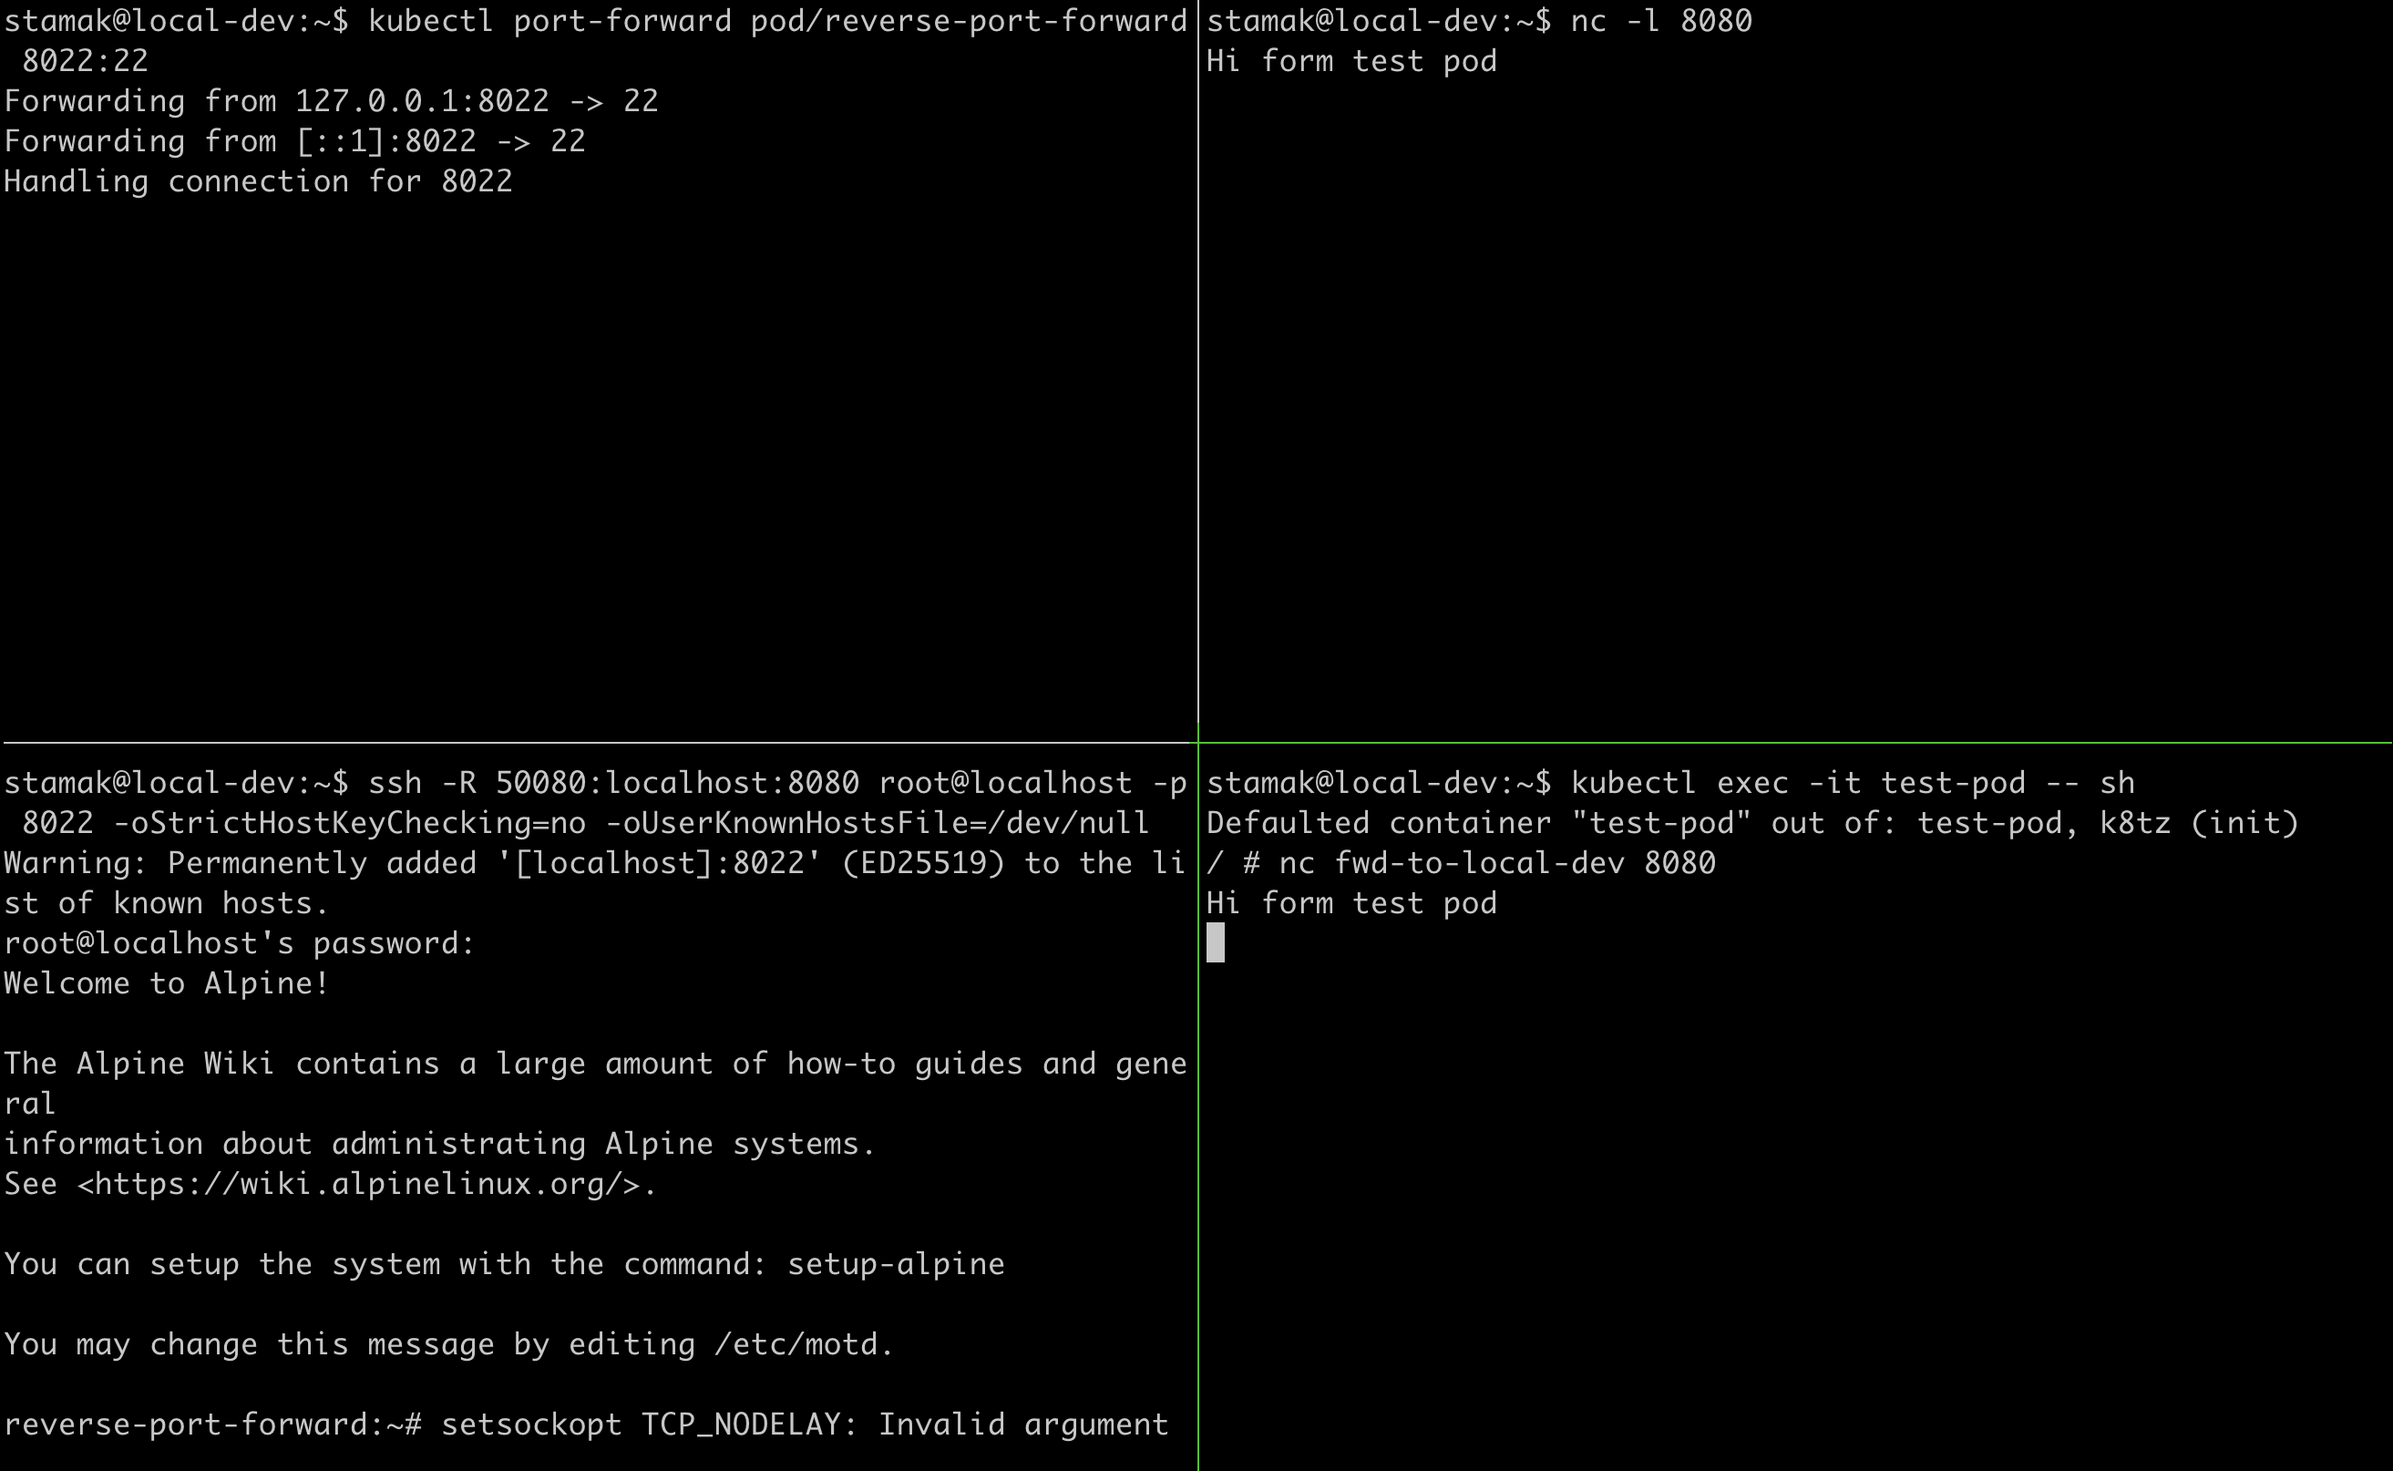
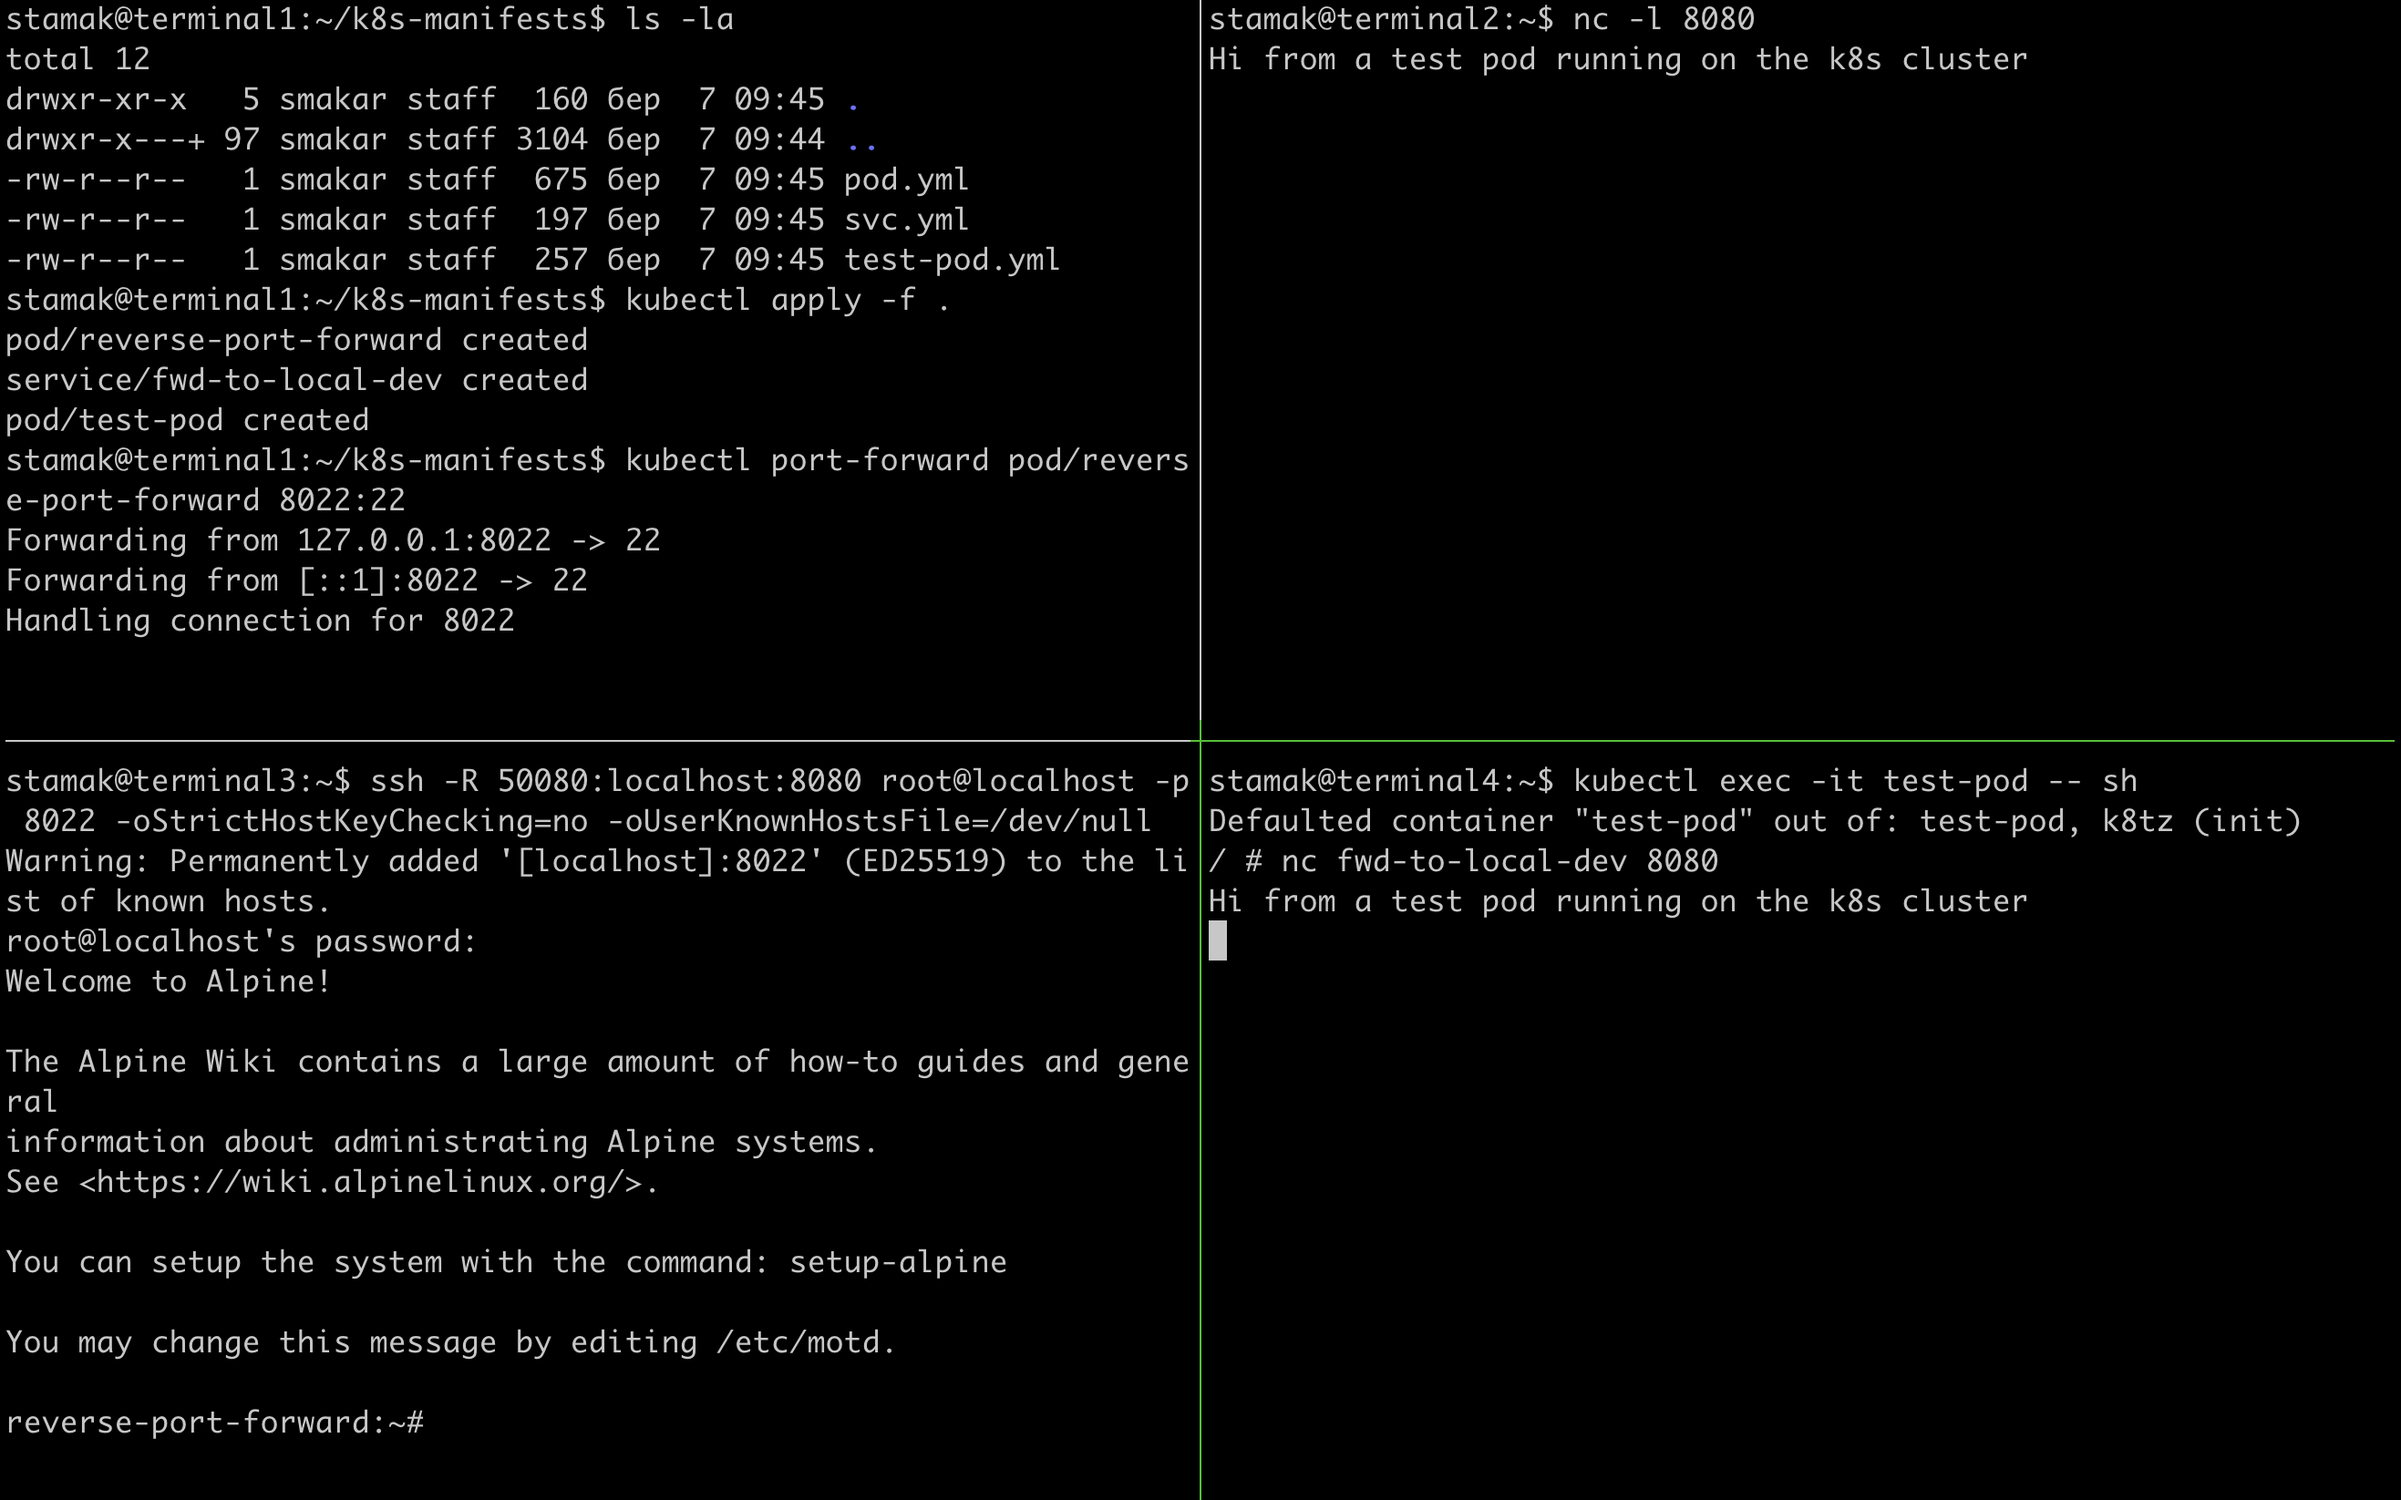
Some corrections

diff --git a/_posts/2024-03-05-reverse-port-fwd.md b/_posts/2024-03-05-reverse-port-fwd.md
@@ -11,27 +11,30 @@ tags: [devops, k8s, kubernetes, port-forward, reverse, ssh, netcat, kubectl, net
 Sometimes you need to connect from a service running in a Kubernetes cluster to a service running on your local machine. This can be useful for debugging, testing, or development purposes. In this article, we'll explore how to set up reverse port forwarding to enable this kind of connection.
 
 ## High-Level Architecture
-![Reverse Port Forwarding](/assets/RvrsPortFwd.png){:height="1700px" width="700px"}
+![aReverse Port Forwarding](/assets/RvrsPortFwd.png){:height="1700px" width="700px"}
 As shown in the diagram, the service running in the Kubernetes cluster needs to connect to a service running on your local machine.
 
-The `kubectl port-forward` command is used to forward a local port to the ssh server pod running in the Kubernetes cluster.
+The `kubectl port-forward` command is used to forward a local port `8022` to the ssh server pod port `22` running in the Kubernetes cluster.
 
-The ssh server pod is used to establish a reverse port forwarding tunnel to the local machine.
+The `ssh -R` command is used to let us forward the remote port `50080` from the ssh server pod to the local machine port `8080`.
 
-The `Alpine Linux` is used as a base image for the ssh server pod.
+The kubernetes service `fwd-to-local-dev` is used to expose the ssh server pod port `50080` as port `8080` to all services running on the Kubernetes cluster and the test pod as well.
 
-For testing purposes, a simple `netcat` service is used to listen on a port on the local machine, and a test pod is used to connect to this service with `netcat` client through the reverse port forwarding tunnel.
+For testing purposes, a simple `netcat` is used to listen on a port `8080` on the local machine, and a test pod is used to connect to this service with `netcat` client through the reverse port forwarding tunnel.
 
 ## Kubernetes Resources Congifurations
-Prepare the following configurations to deploy the resources in the Kubernetes cluster.
+Preapare the following configurations to deploy the resources in the Kubernetes cluster.
 
- Create a directory to store the configurations
+Create a directory to store the configurations
 {% highlight shell %}
 mkdir k8s-manifests
 cd k8s-manifests
 {% endhighlight %}
+
 ___
- Pod Configuration
+Pod Configuration
+
+The `Alpine Linux` is used as a base image for the ssh server pod.
 {% highlight shell %}
 cat <<EOF > pod.yml
 apiVersion: v1
@@ -43,7 +46,7 @@ metadata:
 spec:
   containers:
     - name: alpine-ssh-server
-      image: alpine:latest
+      image: alpine:3.19
       command: ["sh", "-c", "apk add openssh-server;
         ssh-keygen -A;
         echo 'PermitRootLogin yes' >> /etc/ssh/sshd_config;
@@ -57,6 +60,7 @@ spec:
           protocol: TCP
 EOF
 {% endhighlight %}
+
 ___
  Service Configuration
 {% highlight shell %}
@@ -74,6 +78,7 @@ spec:
       targetPort: 50080
 EOF
 {% endhighlight %}
+
 ___
  Test pod configuration
 {% highlight shell %}
@@ -87,21 +92,23 @@ metadata:
 spec:
   containers:
     - name: test-pod
-      image: alpine:latest
-      command: ["sh", "-c", "apk add netcat-openbsd; while true; do sleep 1; done"]
+      image: alpine:3.19
+      command: ["sh", "-c", "apk add netcat-openbsd;
+        while true; do sleep 1; done"]
 EOF
 {% endhighlight %}
+
 ___
  Deploy the resources
 {% highlight shell %}
-stamak@local-dev:~/k8s-manifests$ ls -la
+stamak@terminal1:~/k8s-manifests$ ls -la
 total 12
-drwxr-xr-x   5 smakar staff  160 бер  6 18:03 .
-drwxr-x---+ 97 smakar staff 3104 бер  6 18:01 ..
--rw-r--r--   1 smakar staff  677 бер  6 18:02 pod.yml
--rw-r--r--   1 smakar staff  197 бер  6 18:02 svc.yml
--rw-r--r--   1 smakar staff  251 бер  6 18:03 test-pod.yml
-stamak@local-dev:~/k8s-manifests$ kubectl apply -f .
+drwxr-xr-x   5 stamak staff  160 бер  6 18:03 .
+drwxr-x---+ 97 stamak staff 3104 бер  6 18:01 ..
+-rw-r--r--   1 stamak staff  677 бер  6 18:02 pod.yml
+-rw-r--r--   1 stamak staff  197 бер  6 18:02 svc.yml
+-rw-r--r--   1 stamak staff  251 бер  6 18:03 test-pod.yml
+stamak@terminal1:~/k8s-manifests$ kubectl apply -f .
 pod/reverse-port-forward created
 service/fwd-to-local-dev created
 pod/test-pod created
@@ -117,8 +124,10 @@ kubectl port-forward pod/reverse-port-forward 8022:22
 {% endhighlight %}
 ___
 
-**[Terminal 2]** Start locally service listening on port 8080 or `netcat` in my case
+**[Terminal 2]** Start locally service listening on port `8080` or `netcat` in my case
 
+*NOTE*: `8080` port is port where your local service is listening on.
+You can replace it with the port your service is listening on.
 {% highlight shell %}
 nc -l 8080
 {% endhighlight %}
@@ -126,7 +135,10 @@ ___
 
 **[Terminal 3]** Open a reverse ssh tunnel to the ssh server pod
 
-Password: `dummy_passwd`
+*NOTE*: `8080` port is port where your local service is listening on.
+You can replace it with the port your service is listening on.
+
+*NOTE*: Password: `dummy_passwd`
 {% highlight shell %}
 ssh -R 50080:localhost:8080 root@localhost -p 8022 -oStrictHostKeyChecking=no -oUserKnownHostsFile=/dev/null
 {% endhighlight %}
